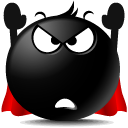
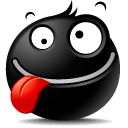
Change some reactions

diff --git a/webapp/api/pictures.py b/webapp/api/pictures.py
@@ -4,6 +4,7 @@ import functools
 from datetime import datetime, UTC
 
 from starlette.endpoints import HTTPEndpoint
+from starlette.exceptions import HTTPException
 from starlette.responses import JSONResponse
 
 from ..auth.cu import checkcu
@@ -24,9 +25,7 @@ class Search(HTTPEndpoint):
         res = {'album': None}
         token = request.headers.get('x-auth-sestee')
         if token is None:
-            res['message'] = 'Запрос оформлен неверно, отклонено.'
-            res.pop('album')
-            return JSONResponse(res)
+            raise HTTPException(403)
         conn = await get_conn(request.app.config)
         cu = await checkcu(request, conn, token)
         message = await check_g_secure(request, cu, 150)
@@ -58,9 +57,7 @@ class Picstat(HTTPEndpoint):
         res = {'picture': None}
         token = request.headers.get('x-auth-sestee')
         if token is None:
-            res['message'] = 'Запрос оформлен неверно, отклонено.'
-            res.pop('picture')
-            return JSONResponse(res)
+            raise HTTPException(403)
         conn = await get_conn(request.app.config)
         cu = await checkcu(request, conn, token)
         message = await check_g_secure(request, cu, 150)
@@ -136,9 +133,7 @@ class Album(HTTPEndpoint):
         res = {'cu': None, 'album': None}
         token = request.headers.get('x-auth-sestee')
         if token is None:
-            res['message'] = 'Запрос оформлен неверно, отклонено.'
-            res.pop('album')
-            return JSONResponse(res)
+            raise HTTPException(403)
         conn = await get_conn(request.app.config)
         cu = await checkcu(request, conn, token)
         res['cu'] = cu
@@ -311,9 +306,7 @@ class Albumstat(HTTPEndpoint):
         res = {'album': None}
         token = request.headers.get('x-auth-sestee')
         if token is None:
-            res['message'] = 'Запрос оформлен неверно, отклонено.'
-            res.pop('album')
-            return JSONResponse(res)
+            raise HTTPException(403)
         conn = await get_conn(request.app.config)
         cu = await checkcu(request, conn, token)
         message = await check_g_secure(request, cu, 150)
@@ -374,8 +367,7 @@ class Albums(HTTPEndpoint):
         res = {'cu': None}
         token = request.headers.get('x-auth-sestee')
         if token is None:
-            res['message'] = 'Запрос оформлен неверно, отклонено.'
-            return JSONResponse(res)
+            raise HTTPException(403)
         conn = await get_conn(request.app.config)
         cu = await checkcu(request, conn, token)
         res['cu'] = cu

diff --git a/webapp/api/admin.py b/webapp/api/admin.py
@@ -4,6 +4,7 @@ import re
 from datetime import datetime, UTC
 
 from starlette.endpoints import HTTPEndpoint
+from starlette.exceptions import HTTPException
 from starlette.responses import JSONResponse
 from validate_email import validate_email
 
@@ -66,8 +67,7 @@ class AuthAlis(HTTPEndpoint):
         res = {'cu': None}
         token = request.headers.get('x-auth-sestee')
         if token is None:
-            res['message'] = 'Запрос оформлен неверно, отклонено.'
-            return JSONResponse(res)
+            raise HTTPException(403)
         conn = await get_conn(request.app.config)
         cu = await checkcu(request, conn, token)
         res['cu'] = cu
@@ -110,8 +110,7 @@ class Alis(HTTPEndpoint):
         res = {'cu': None}
         token = request.headers.get('x-auth-sestee')
         if token is None:
-            res['message'] = 'Запрос оформлен неверно, отклонено.'
-            return JSONResponse(res)
+            raise HTTPException(403)
         conn = await get_conn(request.app.config)
         cu = await checkcu(request, conn, token)
         await conn.close()
@@ -237,8 +236,7 @@ class Admin(HTTPEndpoint):
         res = {'cu': None}
         token = request.headers.get('x-auth-sestee')
         if token is None:
-            res['message'] = 'Запрос оформлен неверно, отклонено.'
-            return JSONResponse(res)
+            raise HTTPException(403)
         conn = await get_conn(request.app.config)
         cu = await checkcu(request, conn, token)
         res['cu'] = cu

diff --git a/webapp/api/people.py b/webapp/api/people.py
@@ -5,6 +5,7 @@ from datetime import datetime, UTC
 
 from passlib.hash import pbkdf2_sha256
 from starlette.endpoints import HTTPEndpoint
+from starlette.exceptions import HTTPException
 from starlette.responses import JSONResponse
 
 from ..auth.attri import groups
@@ -26,8 +27,7 @@ class People(HTTPEndpoint):
         res = {'cu': None}
         token = request.headers.get('x-auth-sestee')
         if token is None:
-            res['message'] = 'Запрос оформлен неверно, отклонено.'
-            return JSONResponse(res)
+            raise HTTPException(403)
         conn = await get_conn(request.app.config)
         cu = await checkcu(request, conn, token)
         res['cu'] = cu
@@ -333,8 +333,7 @@ class Profile(HTTPEndpoint):
         res = {'user': None, 'cu': None}
         token = request.headers.get('x-auth-sestee')
         if token is None:
-            res['message'] = 'Запрос оформлен неверно, отклонено.'
-            return JSONResponse(res)
+            raise HTTPException(403)
         username = request.query_params.get('username')
         conn = await get_conn(request.app.config)
         cu = await checkcu(request, conn, token)

diff --git a/webapp/api/auth.py b/webapp/api/auth.py
@@ -5,6 +5,7 @@ from datetime import datetime, UTC
 
 from passlib.hash import pbkdf2_sha256
 from starlette.endpoints import HTTPEndpoint
+from starlette.exceptions import HTTPException
 from starlette.responses import JSONResponse
 from validate_email import validate_email
 
@@ -26,6 +27,8 @@ class CreateAcc(HTTPEndpoint):
     async def get(self, request):
         res = {'aid': None}
         token = request.headers.get('x-rfp-token')
+        if token is None:
+            raise HTTPException(403)
         acc = await check_token(request.app.config, token)
         if acc is None:
             res['message'] = await fix_bad_token(request.app.config)
@@ -124,6 +127,8 @@ class ResetFP(HTTPEndpoint):
     async def get(self, request):
         res = {'aid': None}
         token = request.headers.get('x-rfp-token')
+        if token is None:
+            raise HTTPException(403)
         acc = await check_token(request.app.config, token)
         if acc is None:
             res['message'] = await fix_bad_token(request.app.config)

diff --git a/webapp/api/aliases.py b/webapp/api/aliases.py
@@ -1,6 +1,7 @@
 from datetime import datetime, UTC
 
 from starlette.endpoints import HTTPEndpoint
+from starlette.exceptions import HTTPException
 from starlette.responses import JSONResponse
 
 from ..auth.cu import checkcu
@@ -55,8 +56,7 @@ class Aliases(HTTPEndpoint):
         res = {'cu': None}
         token = request.headers.get('x-auth-sestee')
         if token is None:
-            res['message'] = 'Запрос оформлен неверно, отклонено.'
-            return JSONResponse(res)
+            raise HTTPException(403)
         conn = await get_conn(request.app.config)
         cu = await checkcu(request, conn, token)
         res['cu'] = cu

diff --git a/webapp/errors/__init__.py b/webapp/errors/__init__.py
@@ -9,7 +9,7 @@ E404 = 'Такой страницы у нас нет.'
 
 async def show_error(request, exc):
     if exc.status_code == 403:
-        exc.detail = 'Доступ ограничен, недостаточно прав.'
+        exc.detail = 'Доступ ограничен.'
     if exc.status_code == 404:
         exc.detail = E404
     if exc.status_code == 405:
